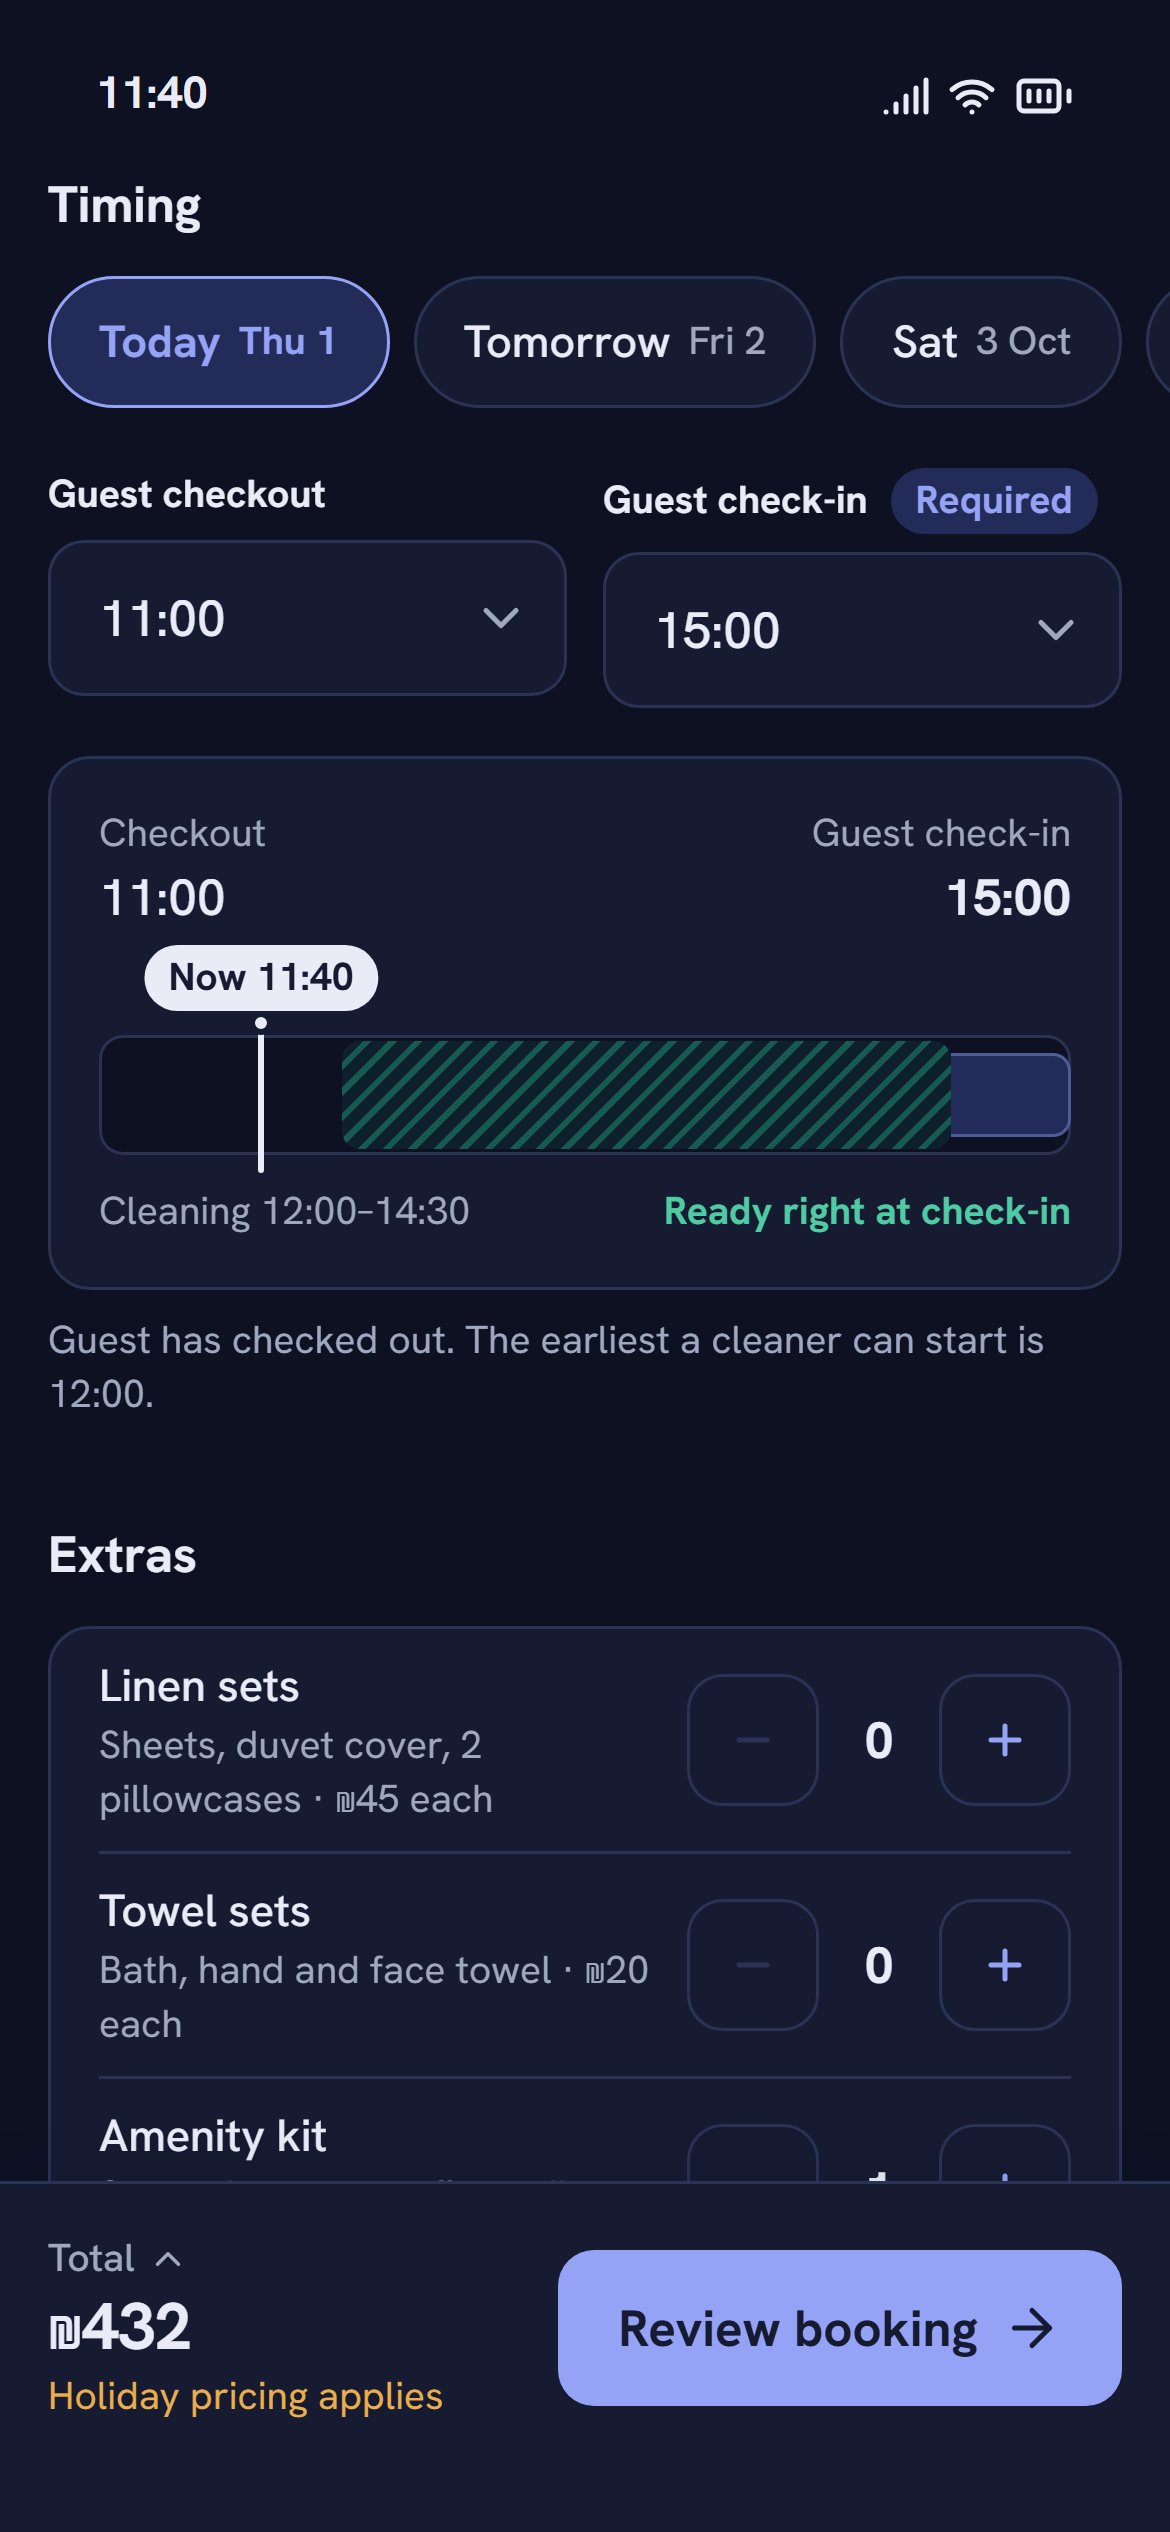
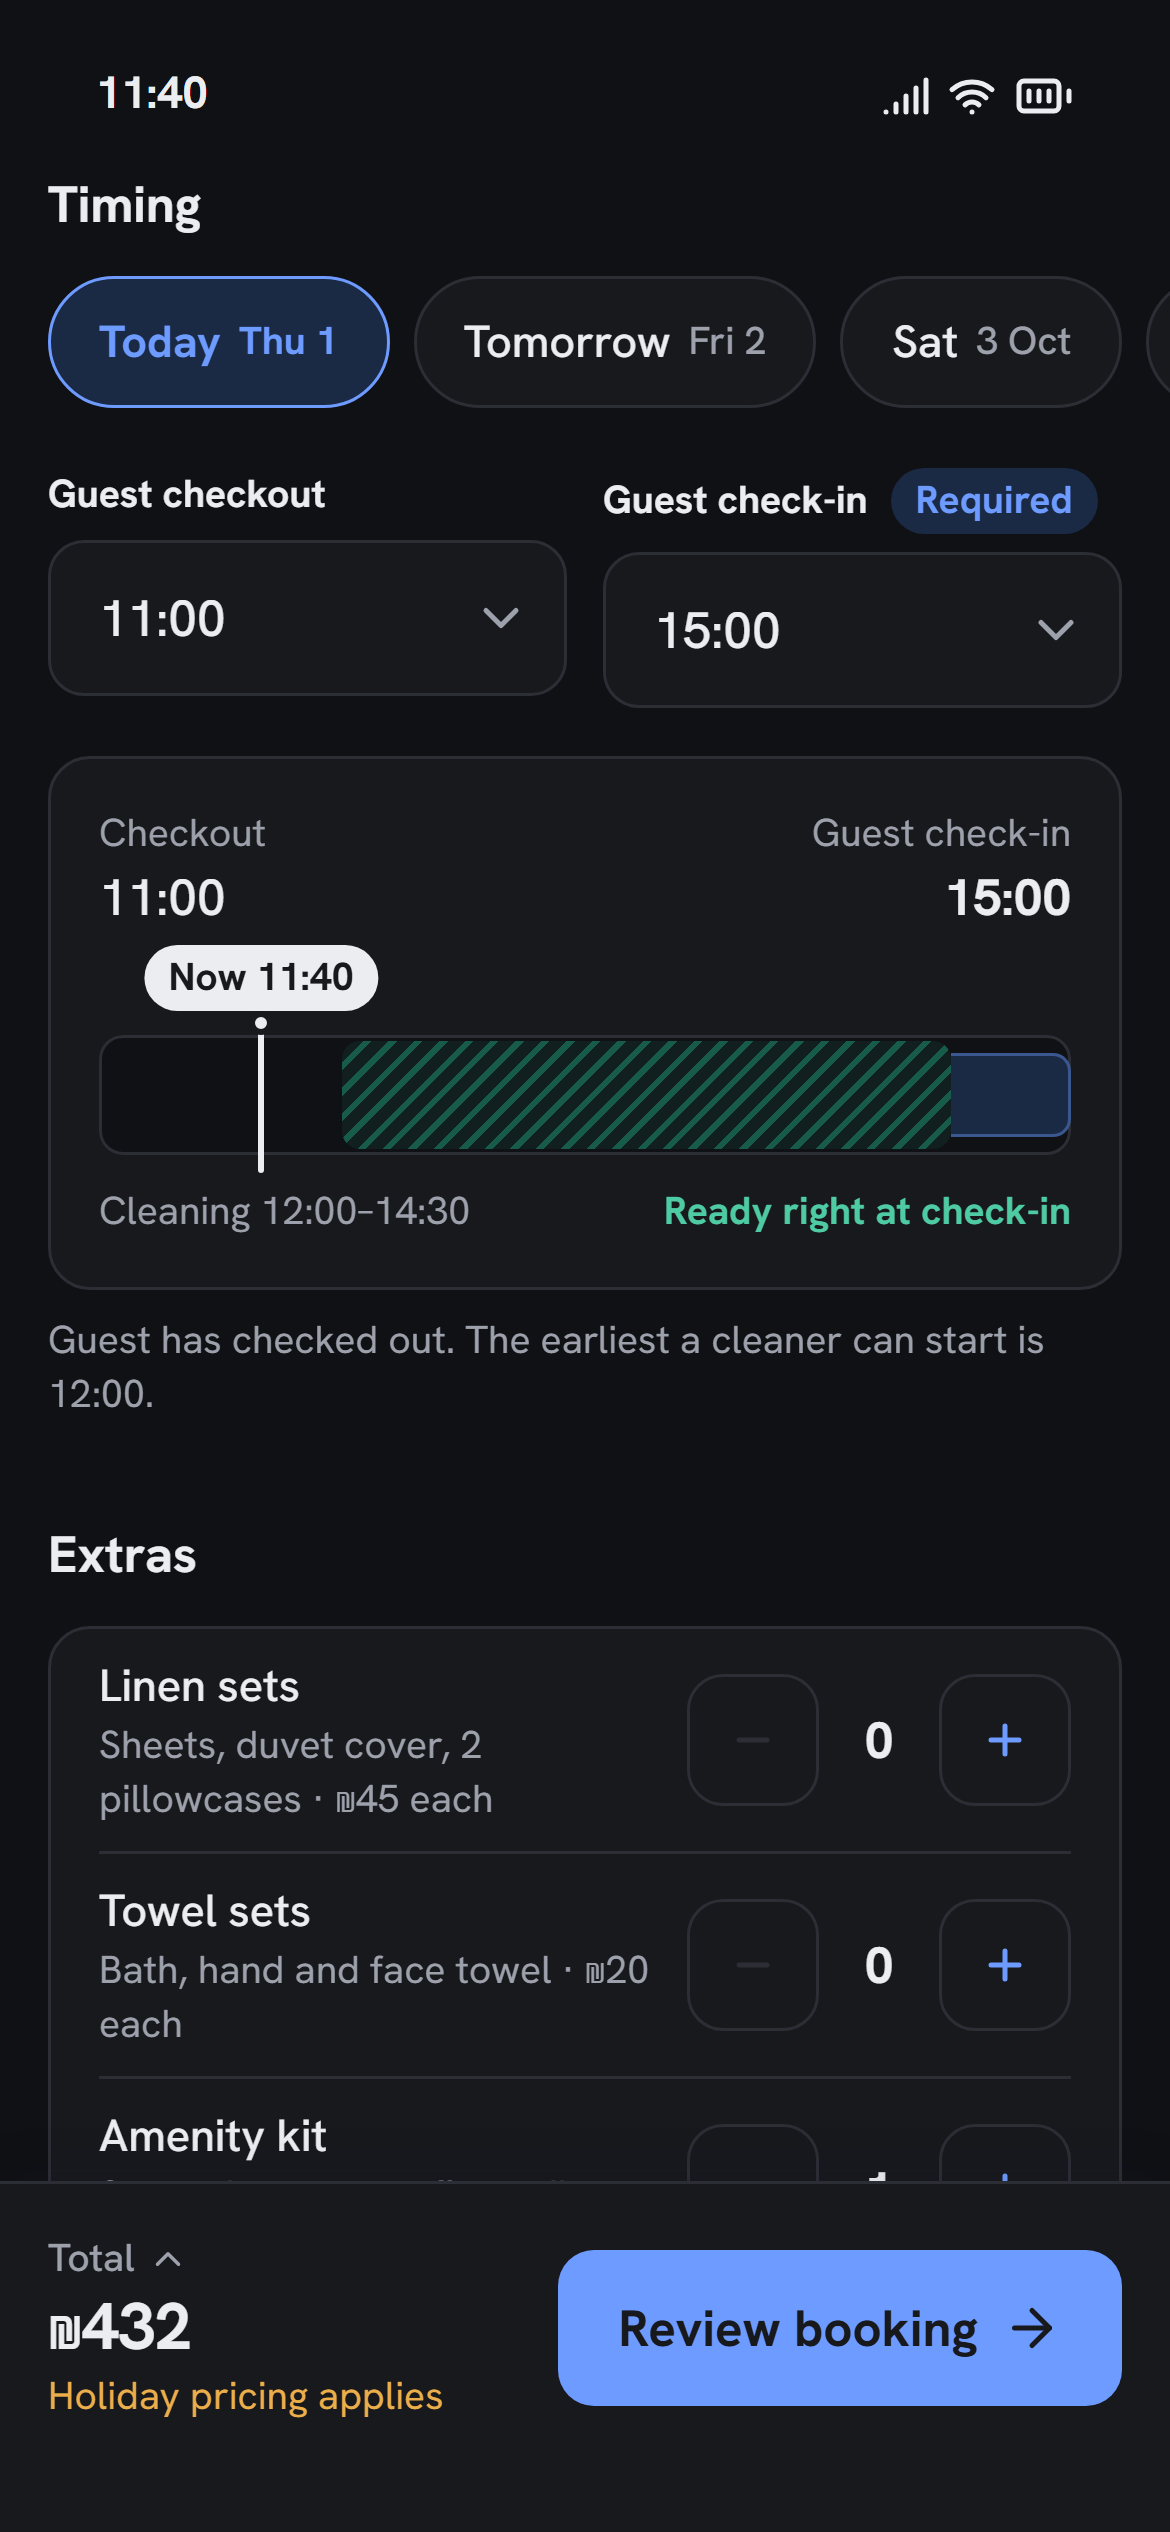
Dark theme: neutral graphite instead of indigo
- Dark surfaces lose the navy tint; brand blue moves from lavender (231°) to true blue (221°) and is used only for actions, selection and links
- Guidelines → Themes and the token notes explain the rule; lesson recorded
- Dark screenshots re-rendered

diff --git a/src/design-system/tokens.js b/src/design-system/tokens.js
@@ -8,25 +8,26 @@
 /**
  * Semantic colors, one value per theme. Names stay the same in both themes,
  * so components never branch on light or dark: the CSS variables flip.
- * Dark theme: brand-tinted navy night (not black); primary actions turn light navy with dark text.
+ * Dark theme: neutral graphite surfaces with almost no hue; brand blue only for actions, selection and links.
+ * (A tinted indigo night read as generic AI dark mode, so the tint was removed.)
  */
 export const color = {
-  ink: { light: '#131A3A', dark: '#E9ECF6', use: 'Primary text' },
-  navy: { light: '#1B2FA0', dark: '#94A3F5', use: 'Brand, primary actions, links. Continuity with the 2019 Patronim navy' },
-  'navy-deep': { light: '#14237A', dark: '#B0BCF8', use: 'Primary action hover and pressed' },
-  'navy-soft': { light: '#E8EBF9', dark: '#232C59', use: 'Selected states, brand tint surfaces' },
-  surface: { light: '#FFFFFF', dark: '#161B31', use: 'Cards, sheets. Also the text color on filled buttons and badges' },
-  canvas: { light: '#F3F5F8', dark: '#0D1122', use: 'App background. Light: cool "fresh linen" white, not cream' },
-  line: { light: '#DCE1EA', dark: '#2B3355', use: 'Dividers, borders' },
-  muted: { light: '#5B6478', dark: '#A0A8C0', use: 'Secondary text. AA on surface and canvas in both themes' },
+  ink: { light: '#131A3A', dark: '#ECEDF0', use: 'Primary text' },
+  navy: { light: '#1B2FA0', dark: '#6E9BFF', use: 'Brand, primary actions, links. Continuity with the 2019 Patronim navy' },
+  'navy-deep': { light: '#14237A', dark: '#8FB2FF', use: 'Primary action hover and pressed' },
+  'navy-soft': { light: '#E8EBF9', dark: '#1A2A45', use: 'Selected states, brand tint surfaces' },
+  surface: { light: '#FFFFFF', dark: '#18191D', use: 'Cards, sheets. Also the text color on filled buttons and badges' },
+  canvas: { light: '#F3F5F8', dark: '#101114', use: 'App background. Light: cool "fresh linen" white, not cream. Dark: graphite, not navy' },
+  line: { light: '#DCE1EA', dark: '#2C2E35', use: 'Dividers, borders' },
+  muted: { light: '#5B6478', dark: '#9DA1AB', use: 'Secondary text. AA on surface and canvas in both themes' },
   ok: { light: '#0F8A6A', dark: '#1FA37F', use: 'On track, passed. Fills, bars and icons' },
   'ok-ink': { light: '#0B6E54', dark: '#4FCBA3', use: 'On-track text. The light fill is 4.3:1, below AA for text' },
   risk: { light: '#C9820A', dark: '#D9951F', use: 'At risk (window tight). Fills, bars and icons' },
   'risk-ink': { light: '#8A5700', dark: '#EBAE4A', use: 'At-risk text. The light fill is 3.1:1, below AA for text' },
   late: { light: '#C8363B', dark: '#E0555A', use: 'Late, failed item, errors' },
   'late-ink': { light: '#B02E33', dark: '#FF8F92', use: 'Late text on tinted fills' },
-  scrim: { light: '#131A3A', dark: '#03050C', use: 'Backdrop behind sheets (used at 40%)' },
-  desk: { light: '#E4E8EF', dark: '#070A15', use: 'Desktop background around the phone frame. Not part of the app' },
+  scrim: { light: '#131A3A', dark: '#000000', use: 'Backdrop behind sheets (used at 40%)' },
+  desk: { light: '#E4E8EF', dark: '#0A0A0C', use: 'Desktop background around the phone frame. Not part of the app' },
 };
 
 /** Physical phone bezel in the desktop frame. Same in both themes */

diff --git a/docs/lessons.md b/docs/lessons.md
@@ -25,3 +25,8 @@ Each entry follows this pattern:
 ### [2026-09-25] Be economical with tokens
 - **What happened**: User asked to save tokens mid-build.
 - **Rule**: Batch file writes, verify by page text/JS, screenshot only at checkpoints (contact sheets for many screens).
+
+### [2026-09-25] Dark theme came out purple / AI-slop
+- **What happened**: The first dark theme used a navy-tinted night background with a lavender primary (#94A3F5, hue ~231°) and indigo selection. The user said it looked too purple and like AI slop.
+- **Why**: I tinted every dark surface toward the brand hue and lightened the navy until it drifted into periwinkle. Indigo-on-navy is the saturated AI dark-mode default.
+- **Rule**: Dark surfaces are neutral graphite (chroma ≈ 0). Spend brand color only on actions, selection and links. Keep blue at hue ≤ 222° so it stays blue when it gets lighter. Check the hue, not just the contrast, before showing a palette.
